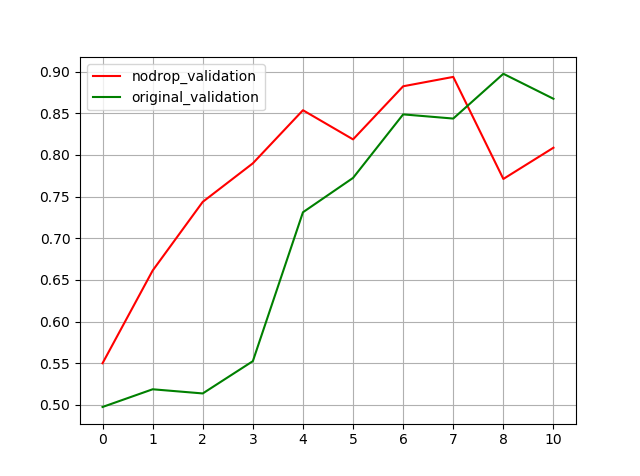
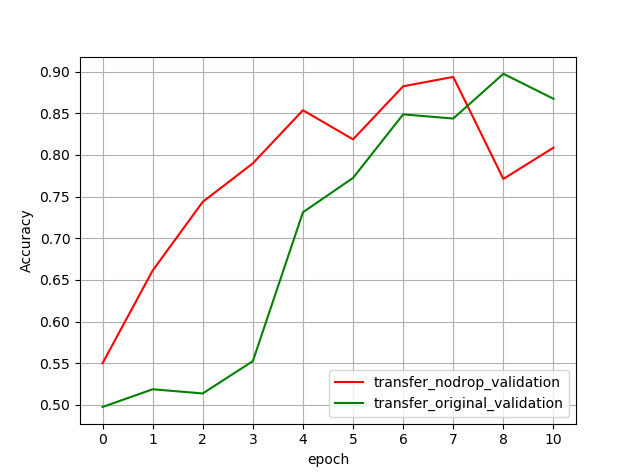
Goede grafieken voor As4Ex3

diff --git a/Code/plotcsv.py b/Code/plotcsv.py
@@ -52,6 +52,8 @@ def files():
         value.append(v)
         i+=1
     plt.legend()
+    plt.xlabel("epoch")
+    plt.ylabel("Loss")
     plt.grid()
     # plt.show(block = False)
     save = input('Save fig? [y/n]: ')
